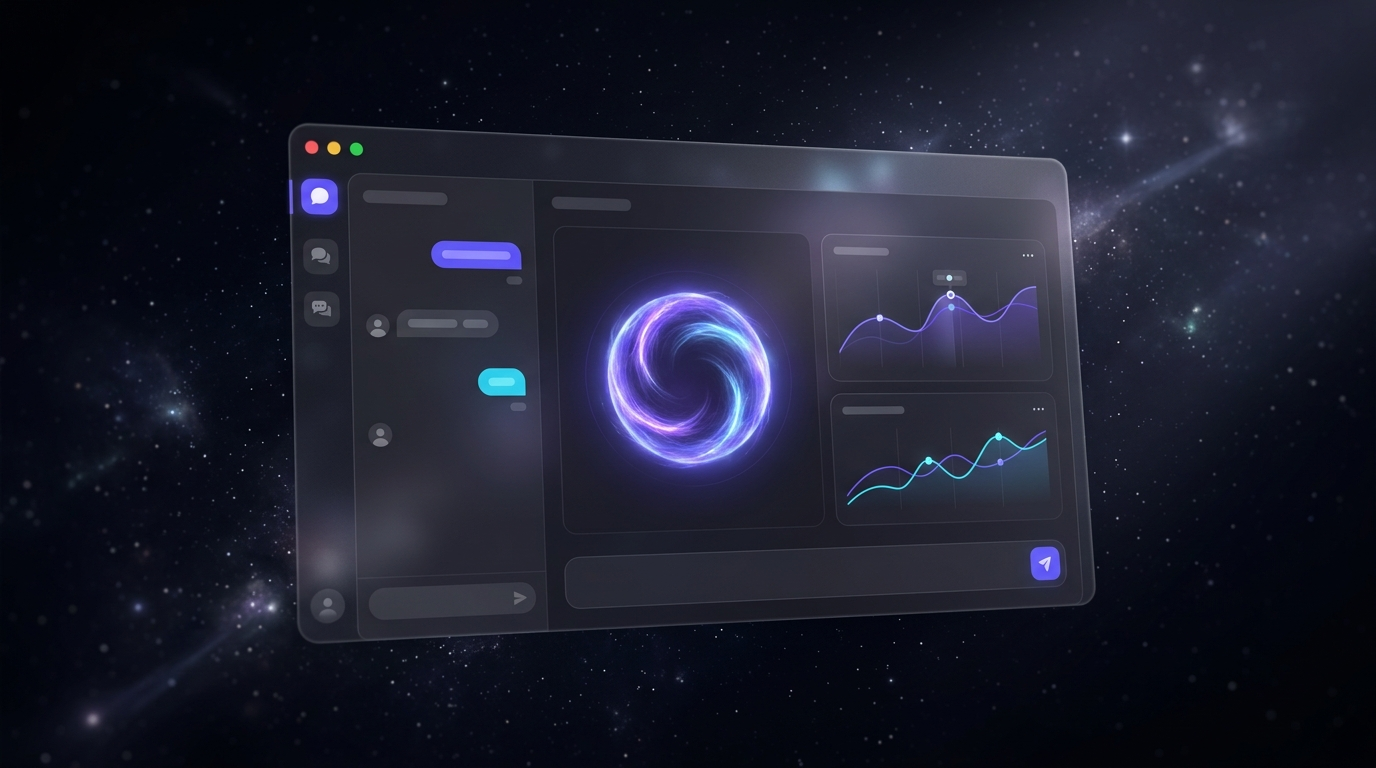
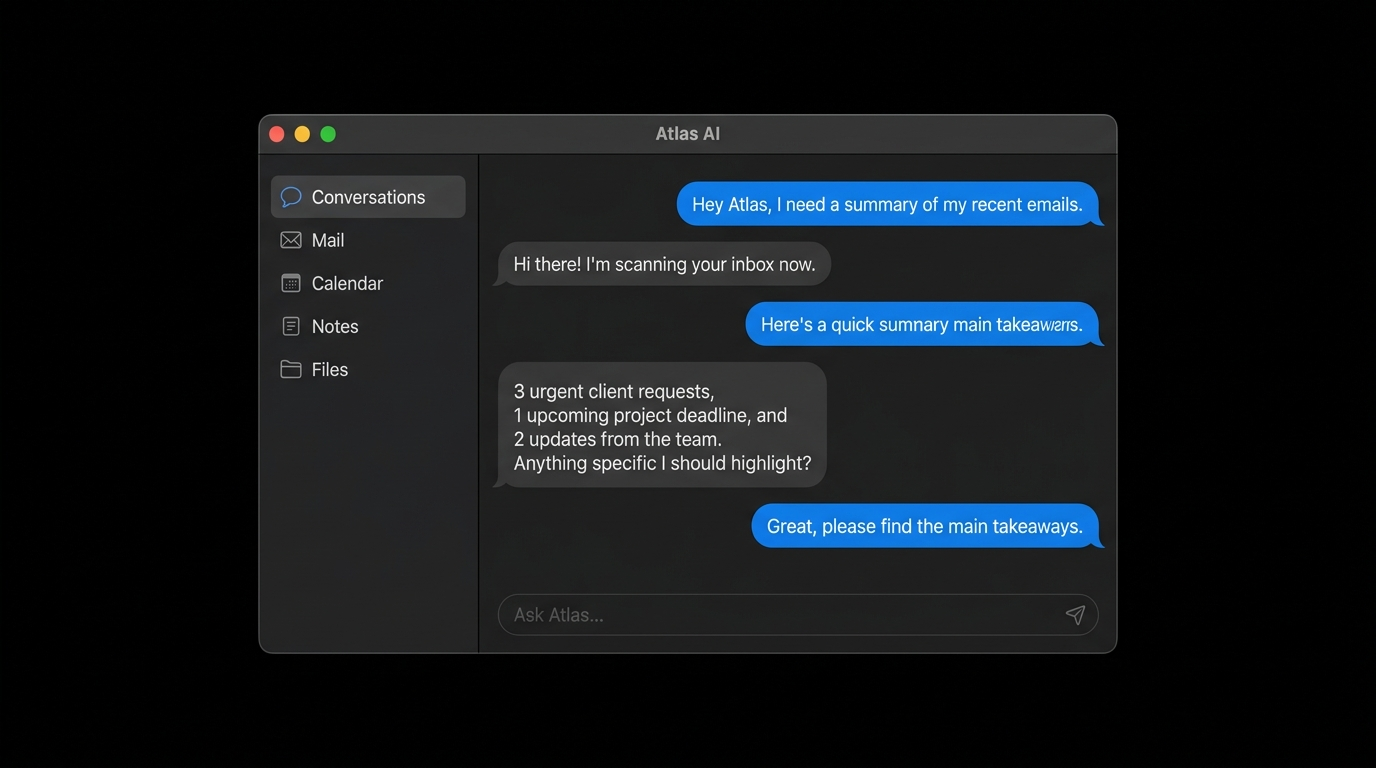
Auto-generated changes

diff --git a/frontend/src/index.css b/frontend/src/index.css
@@ -1315,6 +1315,94 @@ tbody tr:hover {
     pointer-events: none;
 }
 
+/* ── Floating chat bubbles behind the hero title ─────────── */
+.hero-chat-bubbles {
+    position: absolute;
+    inset: 0;
+    z-index: 1;
+    pointer-events: none;
+    overflow: hidden;
+}
+.hb {
+    position: absolute;
+    display: inline-flex;
+    flex-direction: column;
+    gap: 4px;
+    padding: 12px 16px;
+    border-radius: 16px;
+    font-size: 13px;
+    line-height: 1.35;
+    letter-spacing: -0.01em;
+    background: rgba(28, 28, 30, 0.72);
+    backdrop-filter: blur(14px) saturate(160%);
+    -webkit-backdrop-filter: blur(14px) saturate(160%);
+    border: 1px solid rgba(255, 255, 255, 0.08);
+    box-shadow: 0 12px 36px rgba(0, 0, 0, 0.55);
+    color: rgba(245, 245, 247, 0.92);
+    max-width: 240px;
+    opacity: 0;
+    transform: translateY(14px) scale(0.96);
+    animation: hb-in 1s var(--ease-out) forwards, hb-float 6s ease-in-out infinite;
+    will-change: transform, opacity;
+}
+.hb-label {
+    font-size: 10px;
+    text-transform: uppercase;
+    letter-spacing: 0.12em;
+    color: rgba(245, 245, 247, 0.45);
+    font-weight: 500;
+}
+.hb-ask {
+    background: rgba(0, 113, 227, 0.18);
+    border-color: rgba(0, 113, 227, 0.3);
+    border-bottom-left-radius: 6px;
+}
+.hb-ask .hb-label { color: #2997ff; }
+.hb-reply {
+    background: rgba(28, 28, 30, 0.78);
+    border-bottom-right-radius: 6px;
+}
+.hb-thinking { border-bottom-right-radius: 6px; }
+
+/* Positions */
+.hb-left { top: 26%; left: 6%; animation-delay: 0.3s, 1.3s; }
+.hb-right { top: 22%; right: 6%; animation-delay: 1.1s, 2.1s; }
+.hb-bottom-left { bottom: 30%; left: 9%; animation-delay: 1.9s, 2.9s; }
+.hb-bottom-right { bottom: 26%; right: 9%; animation-delay: 2.6s, 3.6s; }
+
+@keyframes hb-in {
+    to { opacity: 1; transform: translateY(0) scale(1); }
+}
+@keyframes hb-float {
+    0%, 100% { transform: translateY(0); }
+    50%      { transform: translateY(-8px); }
+}
+
+/* Animated thinking dots */
+.hb-dots {
+    display: inline-flex;
+    gap: 4px;
+    margin-top: 2px;
+}
+.hb-dots i {
+    display: inline-block;
+    width: 5px;
+    height: 5px;
+    border-radius: 50%;
+    background: rgba(245, 245, 247, 0.55);
+    animation: hb-dot 1.4s ease-in-out infinite;
+}
+.hb-dots i:nth-child(2) { animation-delay: 0.2s; }
+.hb-dots i:nth-child(3) { animation-delay: 0.4s; }
+@keyframes hb-dot {
+    0%, 60%, 100% { opacity: 0.3; transform: translateY(0); }
+    30%           { opacity: 1; transform: translateY(-3px); }
+}
+
+@media (max-width: 1100px) {
+    .hero-chat-bubbles { display: none; }
+}
+
 .hero-aurora {
     position: absolute;
     inset: -20% -10%;

diff --git a/frontend/src/components/atlas/Navbar.jsx b/frontend/src/components/atlas/Navbar.jsx
@@ -34,7 +34,7 @@ export default function Navbar({ onCta }) {
     { id: "features", label: tx("navbar.nav_features", isEn ? "Features" : "Можливості") },
     { id: "how-it-works", label: tx("navbar.nav_how", isEn ? "How it works" : "Як це працює") },
     { id: "comparison", label: tx("navbar.nav_compare", isEn ? "Compare" : "Порівняння") },
-    { id: "pricing", label: isEn ? "Pricing" : "Ціни" }
+    { id: "pricing", label: isEn ? "Pricing" : "Ціни", to: "/pricing" }
   ];
 
   const switchLang = () => {
@@ -83,7 +83,16 @@ export default function Navbar({ onCta }) {
             {navLinks.map((link) => (
               <a
                 key={link.id}
-                href={isHomePage ? `#${link.id}` : `${isEn ? "/en" : ""}/#${link.id}`}
+                href={
+                  link.to
+                    ? (isEn ? `/en${link.to}` : link.to)
+                    : (isHomePage ? `#${link.id}` : `${isEn ? "/en" : ""}/#${link.id}`)
+                }
+                onClick={
+                  link.to
+                    ? (e) => { e.preventDefault(); navigate(link.to); }
+                    : undefined
+                }
                 data-testid={`nav-link-${link.id}`}
               >
                 {link.label}
@@ -179,8 +188,20 @@ export default function Navbar({ onCta }) {
           {navLinks.map((link) => (
             <a
               key={link.id}
-              href={isHomePage ? `#${link.id}` : `${isEn ? "/en" : ""}/#${link.id}`}
-              onClick={() => setIsMobileMenuOpen(false)}
+              href={
+                link.to
+                  ? (isEn ? `/en${link.to}` : link.to)
+                  : (isHomePage ? `#${link.id}` : `${isEn ? "/en" : ""}/#${link.id}`)
+              }
+              onClick={(e) => {
+                if (link.to) {
+                  e.preventDefault();
+                  setIsMobileMenuOpen(false);
+                  navigate(link.to);
+                } else {
+                  setIsMobileMenuOpen(false);
+                }
+              }}
               style={{
                 color: "#f5f5f7",
                 fontSize: 22,

diff --git a/frontend/src/components/atlas/Hero.jsx b/frontend/src/components/atlas/Hero.jsx
@@ -28,6 +28,26 @@ export default function Hero({ onCta }) {
         <div className="hero-grid" aria-hidden="true" />
         <div className="hero-fade-bottom" aria-hidden="true" />
 
+        {/* Floating chat bubbles around the title — "ask Atlas → response → thinking" */}
+        <div className="hero-chat-bubbles" aria-hidden="true">
+          <div className="hb hb-left hb-ask">
+            <span className="hb-label">Ви</span>
+            Підсумуй сьогоднішні листи.
+          </div>
+          <div className="hb hb-right hb-reply">
+            <span className="hb-label">Atlas</span>
+            7 нових. 3 важливі — готую відповідь.
+          </div>
+          <div className="hb hb-bottom-left hb-ask">
+            <span className="hb-label">Ви</span>
+            Заплануй дзвінок завтра.
+          </div>
+          <div className="hb hb-bottom-right hb-thinking">
+            <span className="hb-label">Atlas думає</span>
+            <span className="hb-dots"><i /><i /><i /></span>
+          </div>
+        </div>
+
         <div className="hero-card-inner">
           <p className="apple-eyebrow" data-testid="hero-eyebrow" style={{ position: "relative", zIndex: 2 }}>
             Atlas AI · macOS

diff --git a/scripts/regen_hero_image.py b/scripts/regen_hero_image.py
@@ -1,0 +1,42 @@
+#!/usr/bin/env python3
+"""Regenerate ONLY hero-atlas-app.png in Apple Dark style — pure window, no background."""
+import asyncio, base64, os, sys
+from dotenv import load_dotenv
+
+load_dotenv("/app/backend/.env")
+sys.path.insert(0, "/app/backend")
+
+from emergentintegrations.llm.chat import LlmChat, UserMessage
+
+OUT = "/app/frontend/public/images"
+os.makedirs(OUT, exist_ok=True)
+
+PROMPT = (
+    "Photorealistic isolated screenshot of a macOS application window for an AI assistant called Atlas. "
+    "PURE SOLID BLACK BACKGROUND #000000, no stars, no galaxies, no nebula, no glow, no light leak — "
+    "just the clean rounded macOS window on flat black. "
+    "The window has: traffic-light dots (red/yellow/green) in the top-left, a thin titlebar with the label 'Atlas AI', "
+    "a left sidebar with workspaces (Conversations, Mail, Calendar, Notes, Files) using subtle SF Pro Text labels, "
+    "the main panel shows a clean Apple-style chat conversation with rounded blue (#0071e3) user bubbles on the right "
+    "and dark gray (#2c2c2e) assistant bubbles on the left, neat typography. "
+    "Window styling: graphite #1d1d1f surfaces, hairline borders rgba(255,255,255,0.08), gentle 3D shadow under the window. "
+    "Apple Mac modern aesthetic, minimalistic, premium, no text artifacts, sharp focus, 16:9, professional product shot."
+)
+
+async def main():
+    chat = LlmChat(
+        api_key=os.getenv("EMERGENT_LLM_KEY"),
+        session_id="atlas-hero-apple-dark",
+        system_message="You are an image generator"
+    )
+    chat.with_model("gemini", "gemini-3.1-flash-image-preview").with_params(modalities=["image", "text"])
+    text, images = await chat.send_message_multimodal_response(UserMessage(text=PROMPT))
+    if images:
+        path = os.path.join(OUT, "hero-atlas-app.png")
+        with open(path, "wb") as f:
+            f.write(base64.b64decode(images[0]["data"]))
+        print(f"saved {path}")
+    else:
+        print("NO IMAGE | text:", (text or "")[:200])
+
+asyncio.run(main())
